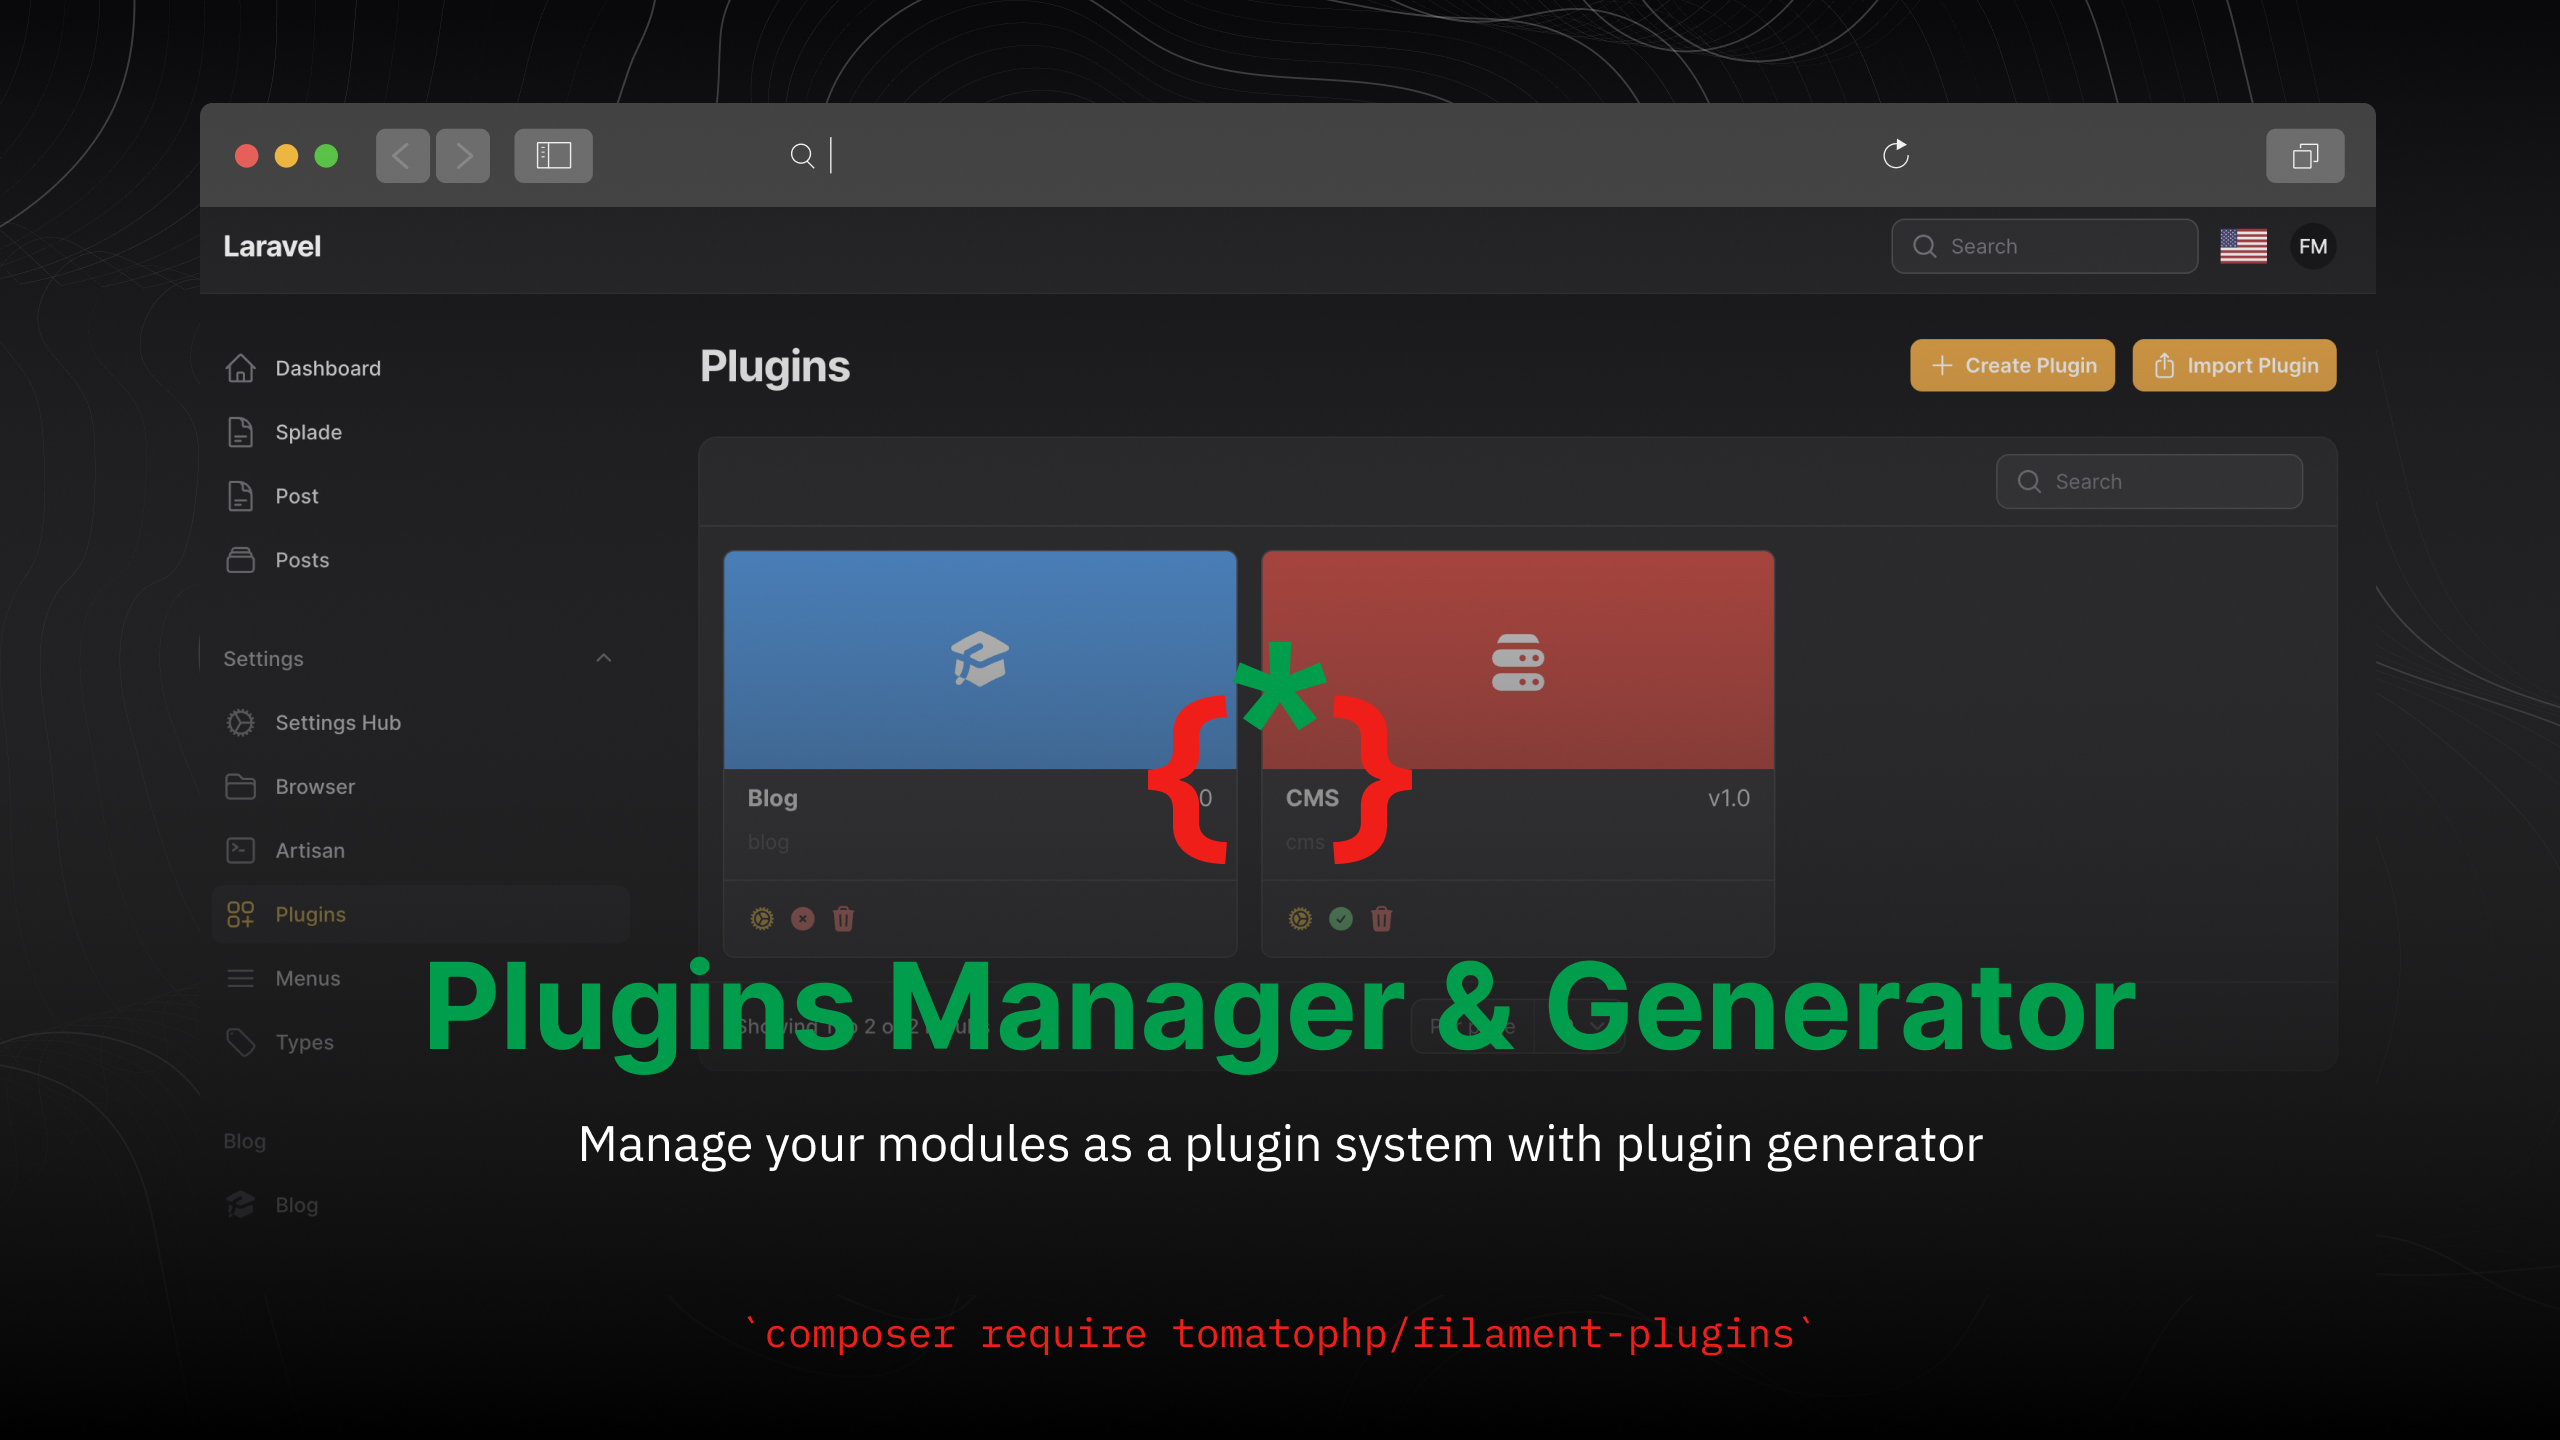
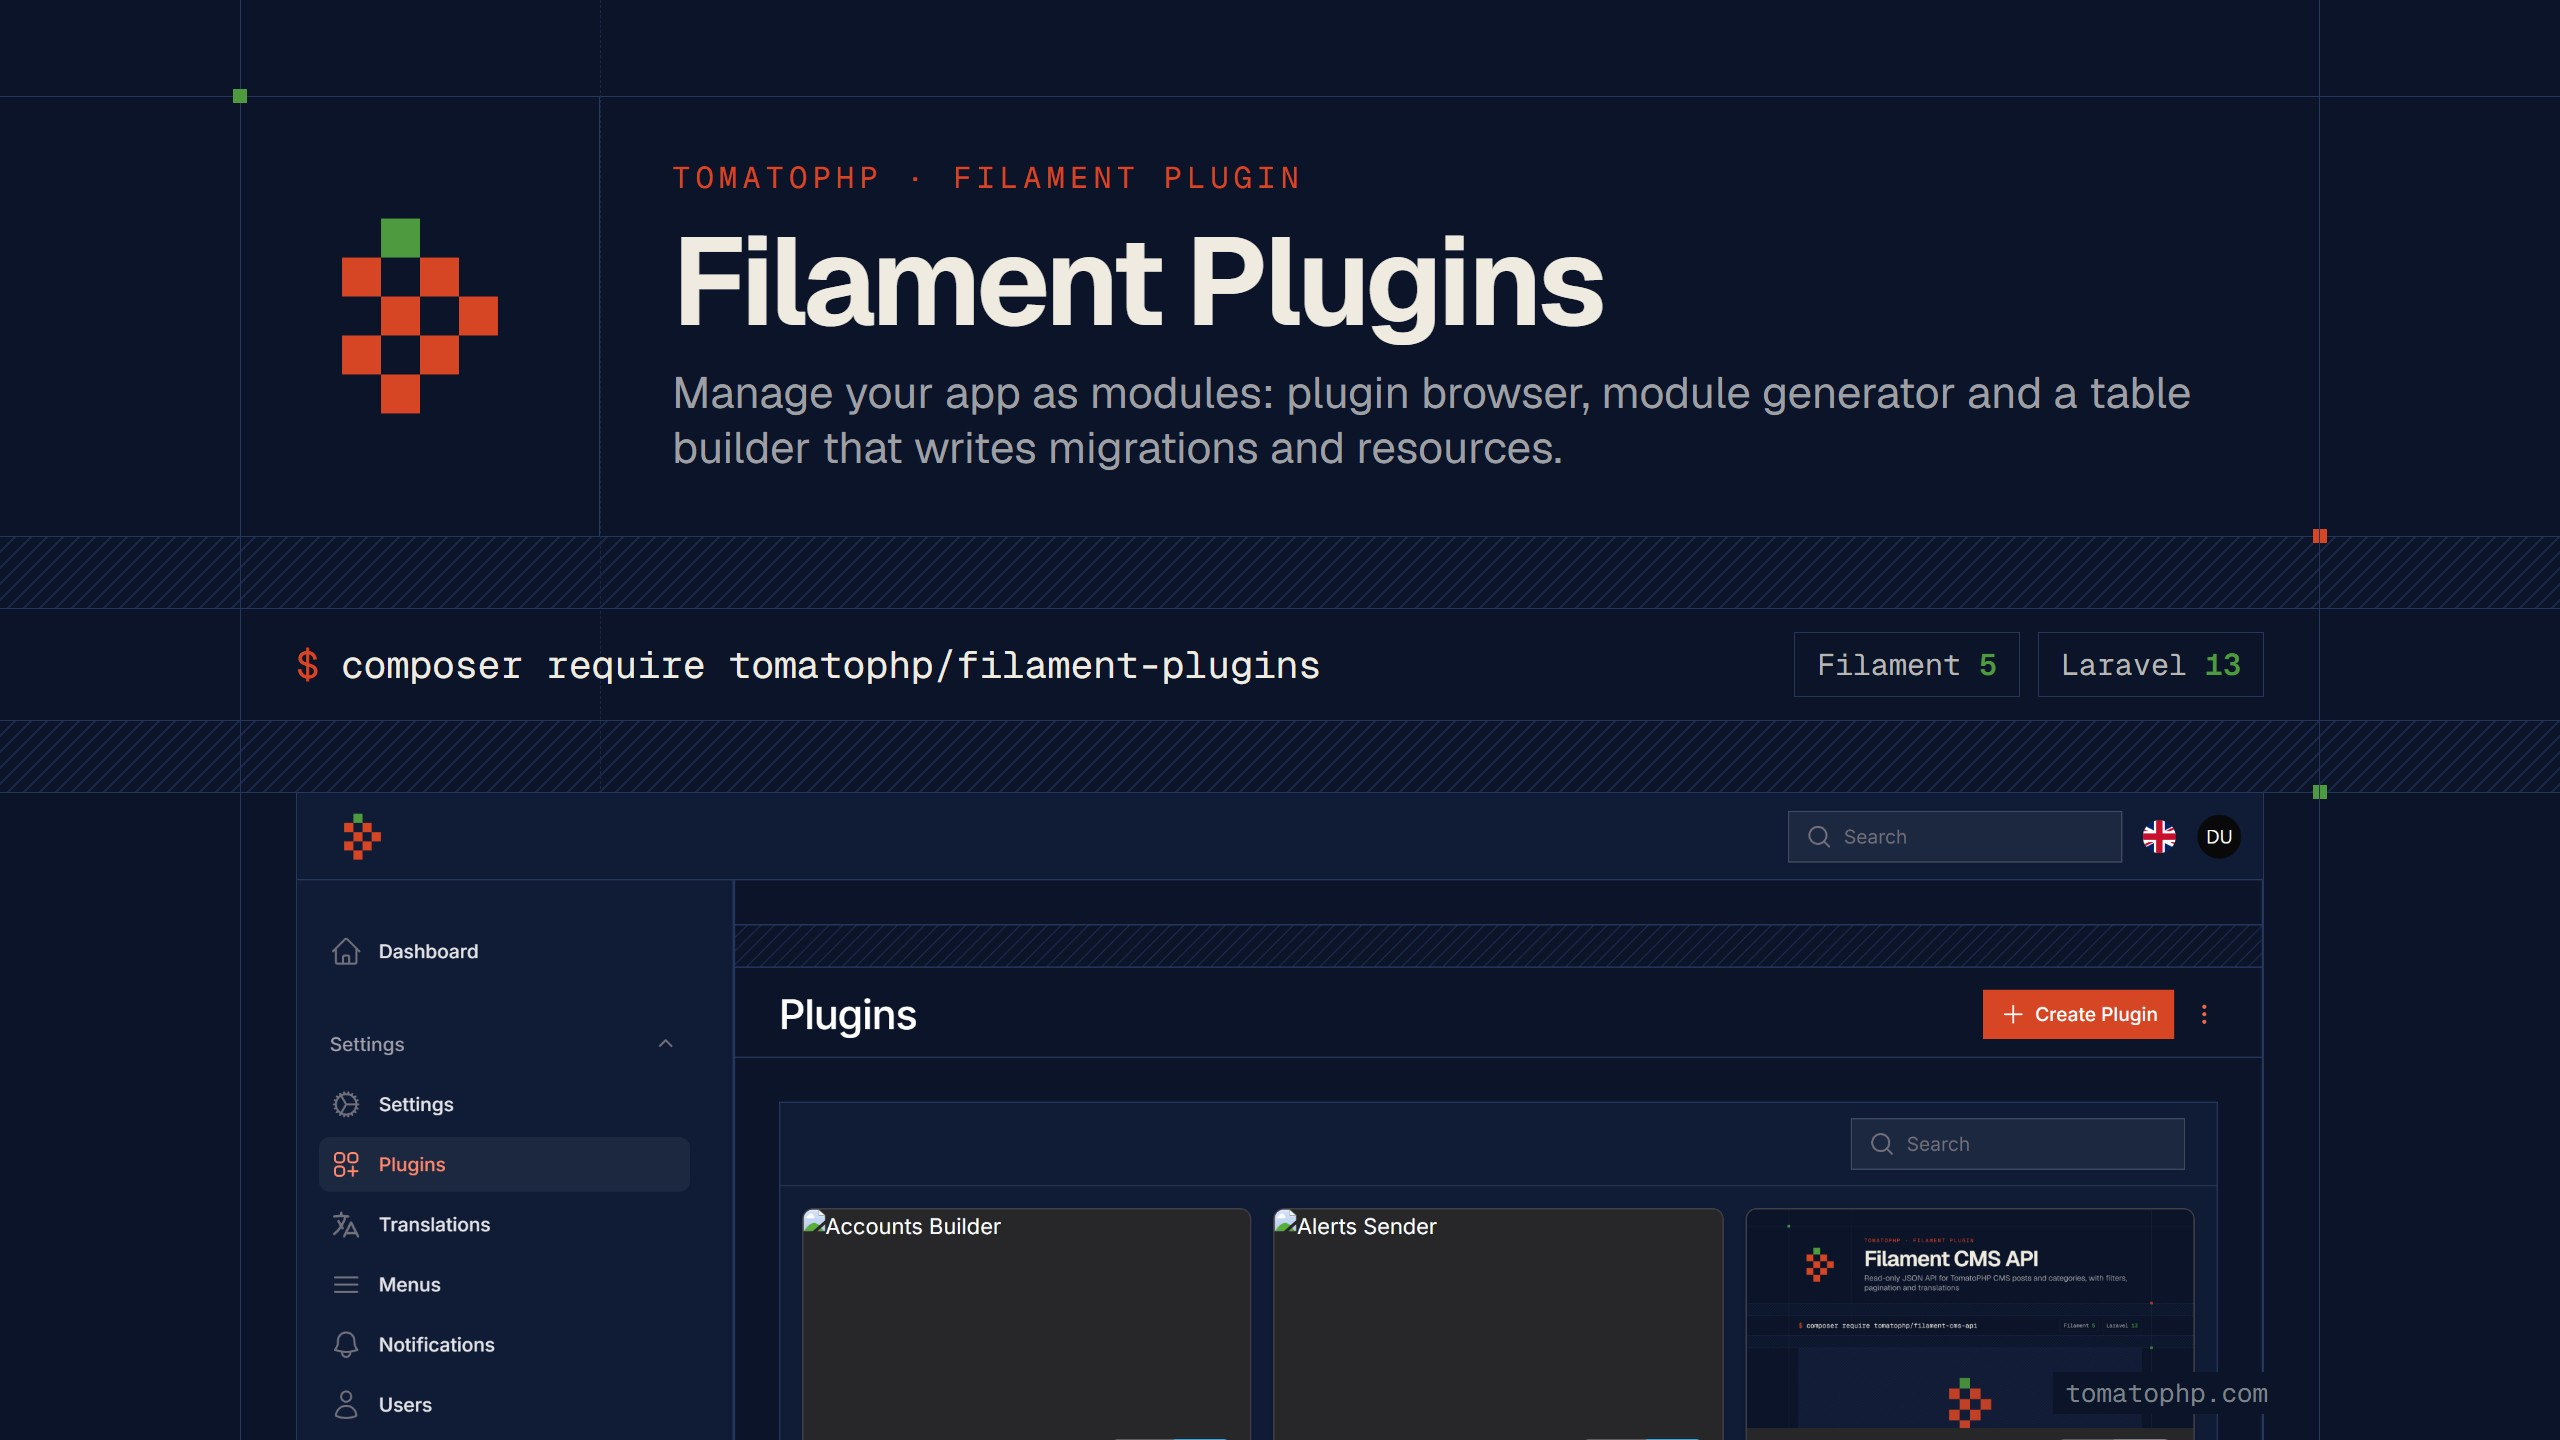
Release prep: homepage, cover and light/dark screenshots

diff --git a/tests/src/CommandsTest.php b/tests/src/CommandsTest.php
@@ -29,6 +29,33 @@ it('runs the install command', function () {
     File::delete(config_path('modules.php'));
 });
 
+it('clears instead of builds the filament component cache on install', function () {
+    // `filament:optimize` froze the panel components at install time, so every plugin registered
+    // afterwards disappeared from the panel until the cache was cleared by hand.
+    $ran = new ArrayObject;
+
+    app()->bind(FilamentPluginsInstall::class, fn () => new class($ran) extends FilamentPluginsInstall
+    {
+        public function __construct(private ArrayObject $ran)
+        {
+            parent::__construct();
+        }
+
+        public function artisanCommand(array $command, ?bool $withOutput = false): void
+        {
+            $this->ran[] = implode(' ', $command);
+        }
+    });
+
+    artisan('filament-plugins:install')->assertSuccessful();
+
+    expect($ran->getArrayCopy())
+        ->toContain('filament:optimize-clear')
+        ->not->toContain('filament:optimize');
+
+    File::delete(config_path('modules.php'));
+});
+
 it('lists the TomatoPHP plugins', function () {
     artisan('filament-plugins:list')
         ->expectsOutputToContain('User Manager')

diff --git a/src/Console/Contracts/Plugin.php b/src/Console/Contracts/Plugin.php
@@ -95,11 +95,11 @@ class Plugin
         info('Installing '.$this->label.' ...');
         $this->requireComposerPackages($this->command);
         $this->artisanCommand([$this->key.':install']);
-        $this->artisanCommand(['filament:optimize']);
+        $this->artisanCommand(['filament:optimize-clear']);
         if (! empty($this->instractions)) {
             warning('finally reigster the plugin on "/app/Providers/Filament/AdminPanelProvider.php" using this code');
             warning($this->instractions);
-            warning('then run "php artisan filament:optimize" and check your plugins in /admin/plugins and enable it');
+            warning('then run "php artisan filament:optimize-clear" and check your plugins in /admin/plugins and enable it');
         }
         info($this->label.' installed successfully');
         info('====================================');

diff --git a/src/Services/CRUDGenerator.php b/src/Services/CRUDGenerator.php
@@ -35,34 +35,33 @@ class CRUDGenerator
 
     use GenerateCols;
     use GenerateController;
-
     use GenerateCreateView;
     use GenerateEditView;
+
     // Generate Classes
     use GenerateFolders;
+
     // Generate From & View
     use GenerateForm;
     use GenerateFormView;
+
     // Generate Views
     use GenerateIndexView;
     use GenerateJsonResource;
     use GenerateMenus;
     use GenerateMigrations;
     use GenerateModel;
-
     use GenerateRequest;
-
     use GenerateRoutes;
     use GenerateRules;
     use GenerateShowView;
     use GenerateTable;
+
     // Handler
     use HandleStub;
     use InjectString;
 
     /**
-     * @param  string  $tableName
-     *
      * @throws Exception
      */
     public function __construct(

diff --git a/src/Console/FilamentPluginsInstall.php b/src/Console/FilamentPluginsInstall.php
@@ -40,7 +40,7 @@ class FilamentPluginsInstall extends Command
         $this->info('Publish Vendor Assets');
         $this->artisanCommand(['migrate']);
         $this->copyFile(__DIR__.'/../../publish/modules.php', config_path('modules.php'));
-        $this->artisanCommand(['filament:optimize']);
+        $this->artisanCommand(['filament:optimize-clear']);
         $this->info('Filament Plugins installed successfully.');
     }
 }

diff --git a/CHANGELOG.md b/CHANGELOG.md
@@ -9,6 +9,7 @@
 - New plugin options to lock down file-writing features: `allowCreate()`, `allowImport()`, `allowToggle()`, `allowDestroy()`, `allowGenerator()`.
 - The table builder's migrate action only drops tables it created itself (tracked with a new `migrated_at` column plus the module's own migration file); an existing table it does not own is left untouched and a notification explains why. Table names must be snake_case, unique and must not match an existing database table.
 - Registering the plugin no longer removes other plugins from the panel: only plugins inside a disabled module from the modules folder are disabled, and only their own classes are removed. Vendor packages that ship a `module.json` (all TomatoPHP packages) are never touched.
+- `filament-plugins:install` and the TomatoPHP plugin installer clear the Filament component cache (`filament:optimize-clear`) instead of building it; the cached list hid every plugin registered after install.
 - Ship `Table` and `TableCol` factories (`TomatoPHP\FilamentPlugins\Database\Factories`).
 - Ship `resources/dist/filament-plugins.css` with the utilities the plugin cards use; run `php artisan filament:assets` after updating.
 - `filament-plugins:model` works on every database driver (it no longer runs `SHOW TABLES`).

diff --git a/README.md b/README.md
@@ -17,11 +17,10 @@ Manage your modules as a plugin system with plugin generator
 
 ## Screenshots
 
-![Plugins](https://raw.githubusercontent.com/tomatophp/filament-plugins/master/arts/plugins.png)
-![Tables](https://raw.githubusercontent.com/tomatophp/filament-plugins/master/arts/tables.png)
-![Generate](https://raw.githubusercontent.com/tomatophp/filament-plugins/master/arts/generate.png)
-![Create Col](https://raw.githubusercontent.com/tomatophp/filament-plugins/master/arts/create-col.png)
-![Table cols](https://raw.githubusercontent.com/tomatophp/filament-plugins/master/arts/table-cols.png)
+![Plugins](https://raw.githubusercontent.com/tomatophp/filament-plugins/master/arts/plugins-light.png)
+![Plugins Dark](https://raw.githubusercontent.com/tomatophp/filament-plugins/master/arts/plugins-dark.png)
+![Table Builder](https://raw.githubusercontent.com/tomatophp/filament-plugins/master/arts/edit-table-light.png)
+![Table Builder Dark](https://raw.githubusercontent.com/tomatophp/filament-plugins/master/arts/edit-table-dark.png)
 
 ## Installation
 
